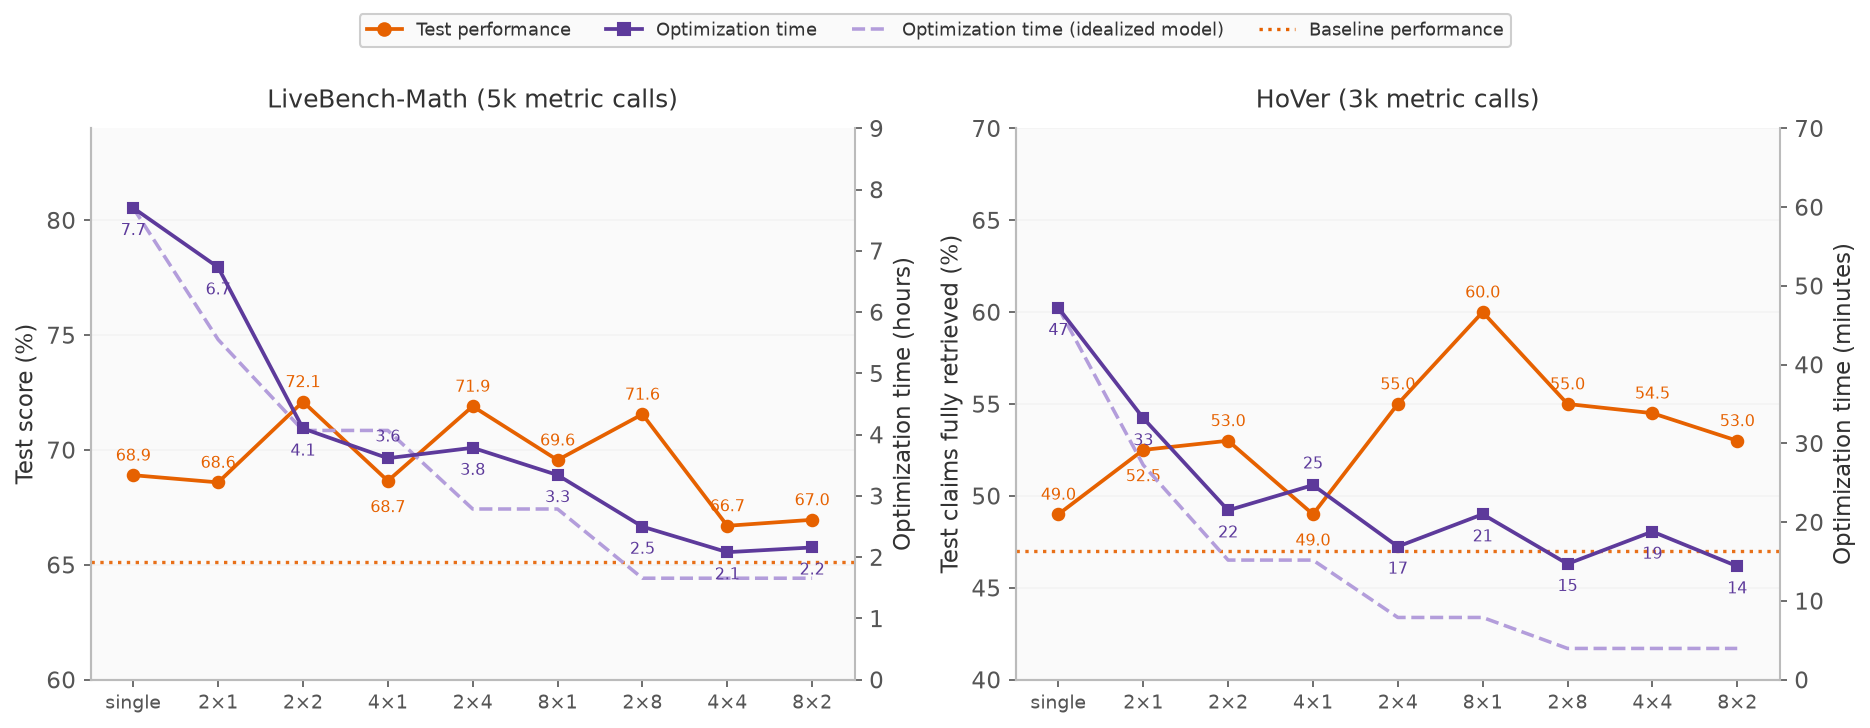
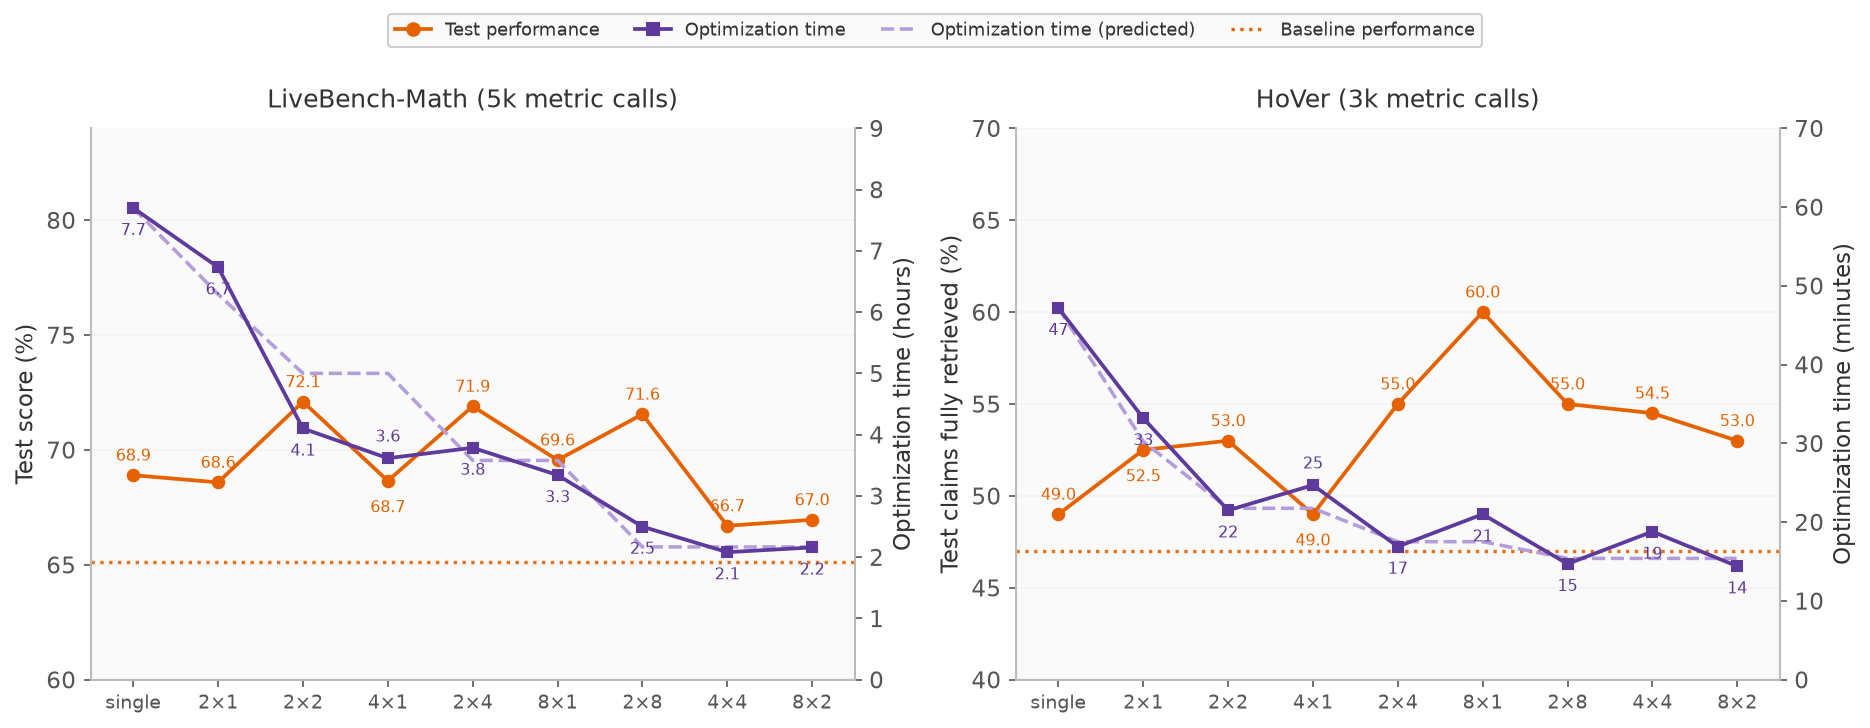
docs(blog): predict runtime with the finite-worker model in the scaling figure

diff --git a/docs/docs/blog/posts/2026-06-22-parallel-proposals/index.md b/docs/docs/blog/posts/2026-06-22-parallel-proposals/index.md
@@ -83,7 +83,7 @@ The measured runs follow this pattern. On LiveBench-Math, moving from single mut
 In practice, two effects increase $L_{\text{step}}$ and $L_{\text{val}}$. First, the reflection wave takes as long as the slowest of its $k$ concurrent calls, so $L_{\text{step}}$ grows with width. Second, the worker pool is finite. With $W$ concurrent workers and a per-rollout latency of $T_e$, a wave of up to $kV$ rollouts ($k$ candidates, each on all $V$ validation examples) takes about $(kV/W) \cdot T_e$ once $kV$ exceeds $W$, so $L_{\text{val}} \propto kV/W$ when $kV>W$. According to strong scaling[^scaling], a run with a budget of $B$ metric calls needs at least $B \cdot T_e / W$ of wall-clock for evaluation alone. This is a hard limit for runtime, so we recommend not scaling $P \cdot N$ further once the runtime approaches it.
 
 <figure markdown="span">
-  ![Two dual-axis line charts across the nine settings from single to 8×2: an orange line with held-out test performance on the left axis, a purple line with optimization time on the right axis, a dashed lighter-purple curve with the idealized model's predicted time, and a dotted baseline. Measured time falls from 7.7 hours to about 2 on LiveBench-Math and from 47 to 14 minutes on HoVer; the predicted curve falls further, to 1.7 hours and 4 minutes. Test performance ranges from 66.7 to 72.1 on LiveBench-Math and from 49.0 to 60.0 on HoVer against single mutation's 68.9 and 49.0.](images/scaling_lines.png){ style="width: 100%;" }
+  ![Two dual-axis line charts across the nine settings from single to 8×2: an orange line with held-out test performance on the left axis, a purple line with optimization time on the right axis, a dashed lighter-purple curve with the optimization time predicted by the finite-worker model, and a dotted baseline. Measured time falls from 7.7 hours to about 2 on LiveBench-Math and from 47 to 14 minutes on HoVer, and the predicted curve tracks it, flattening near 2.2 hours and 15 minutes. Test performance ranges from 66.7 to 72.1 on LiveBench-Math and from 49.0 to 60.0 on HoVer against single mutation's 68.9 and 49.0.](images/scaling_lines.png){ style="width: 100%;" }
   <figcaption>As the per-step width P·N scales up, runtime falls with diminishing returns, and several settings score higher than single mutation.</figcaption>
 </figure>
 
